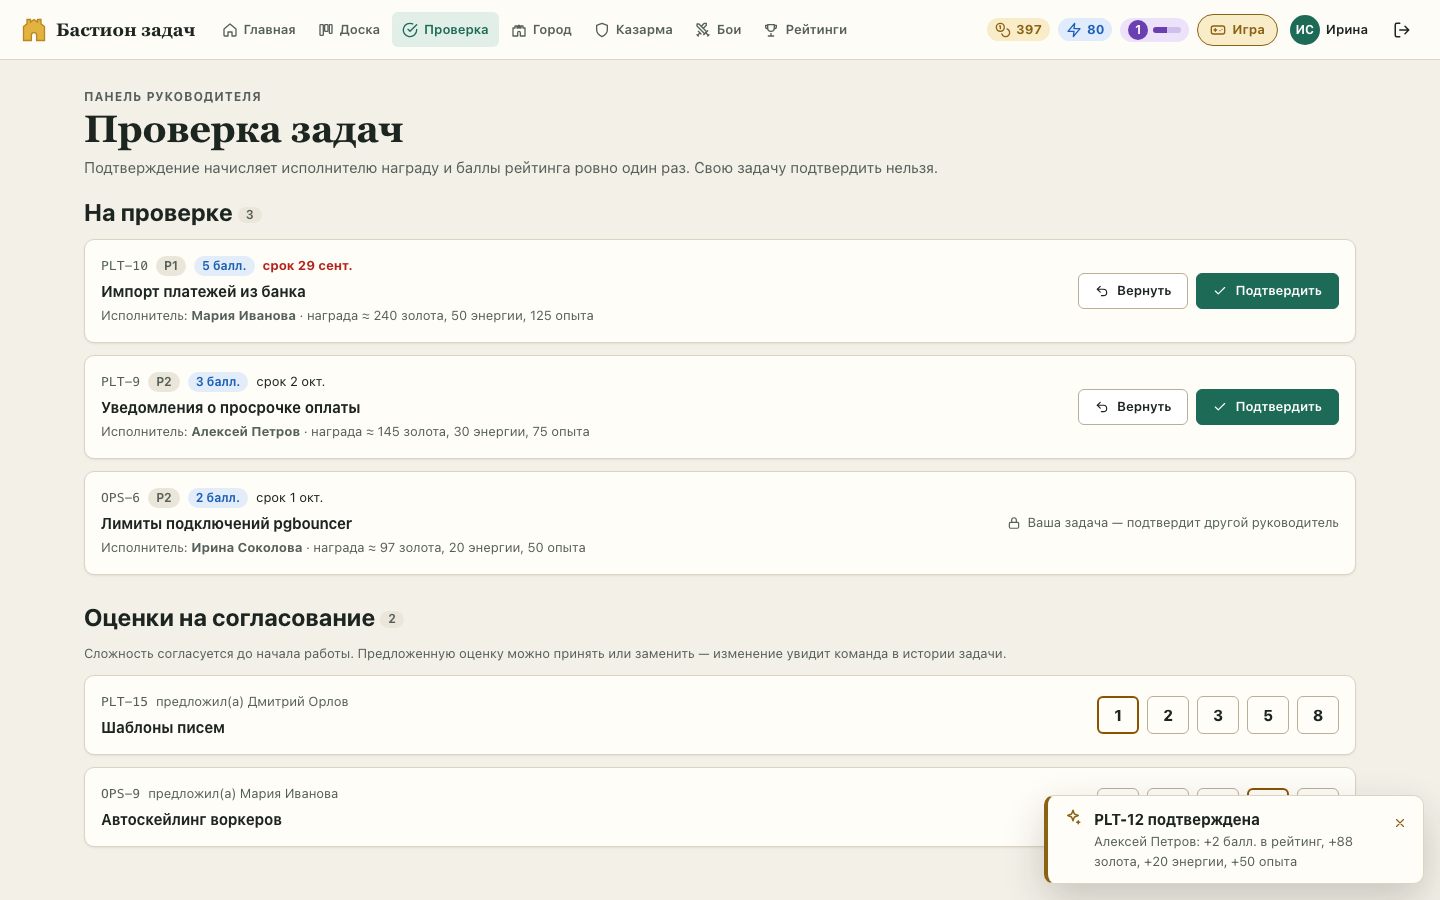
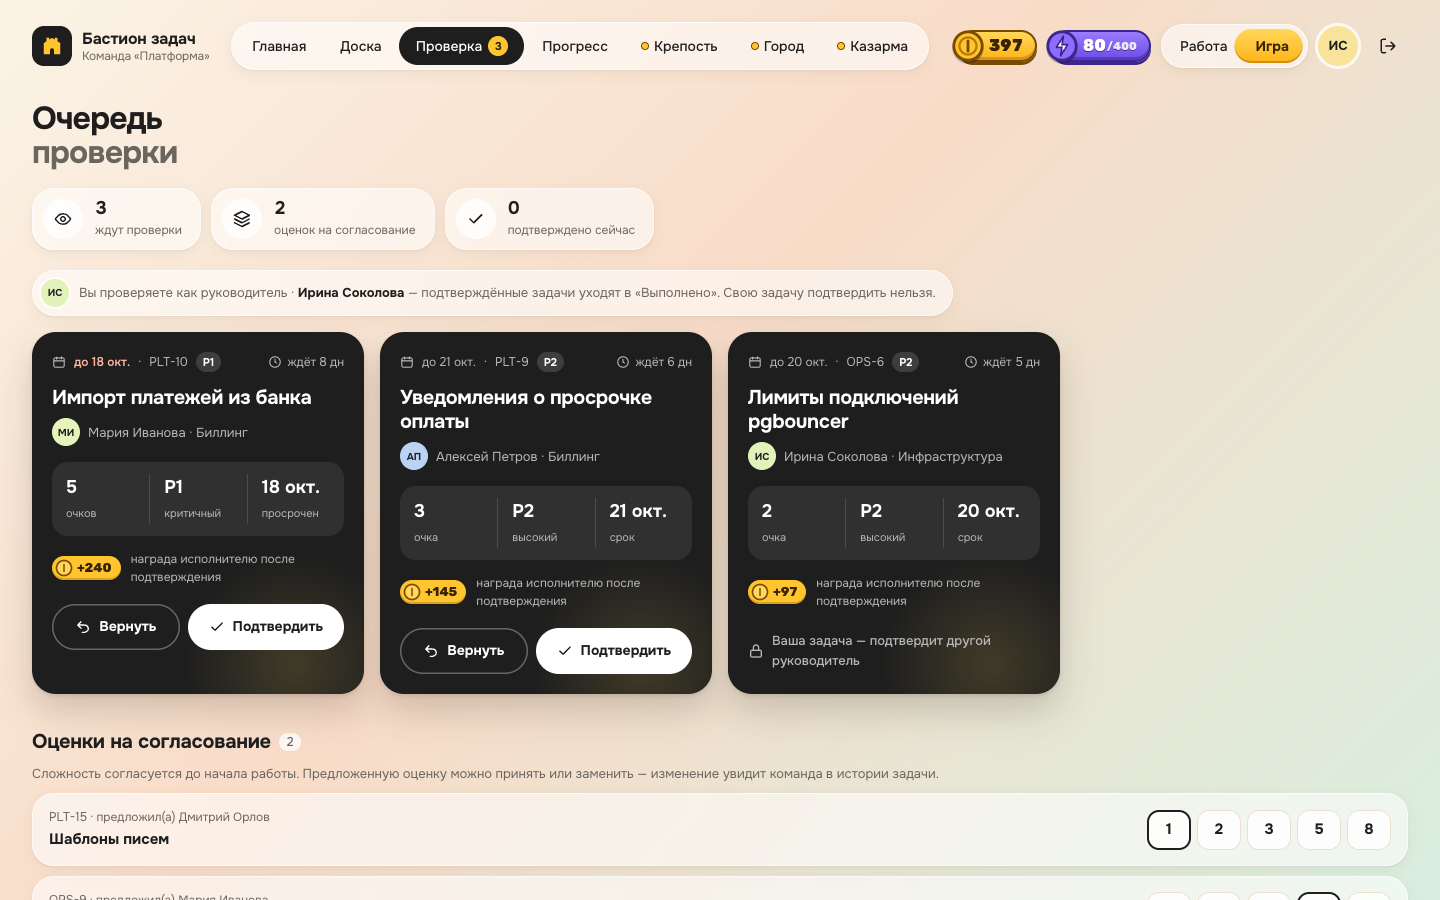
README: новые скриншоты интерфейса в 3D (доска, задача, проверка, казарма, город, крепость, дружеский бой, рабочий режим, мобильная версия); устаревшие снимки убраны

diff --git a/README.ru.md b/README.ru.md
@@ -27,7 +27,7 @@
 **Бастион задач** — канбан для рабочих задач и стратегия про развитие города. Выполняйте задачи команды,
 получайте ресурсы, стройте город и вместе защищайте крепость от собственного бэклога.
 
-<img src="docs/screenshots/city.png" alt="Город игрока с ратушей, башнями, стенами и стройкой" width="100%">
+<img src="docs/screenshots/city.png" alt="Город игрока в 3D: ратуша за стенами, башни, хранилища и казармы" width="100%">
 
 ---
 
@@ -50,13 +50,13 @@
 
 | Доска | Карточка задачи |
 |---|---|
-| <img src="docs/screenshots/board.png" alt="Канбан-доска с пятью колонками"> | <img src="docs/screenshots/task.png" alt="Карточка задачи со сложностью, наградой и историей"> |
+| <img src="docs/screenshots/board.png" alt="Канбан-доска с пятью колонками"> | <img src="docs/screenshots/task.png" alt="Карточка задачи с наградой, сроком и согласованной сложностью"> |
 | **Проверка руководителем** | **Казарма** |
-| <img src="docs/screenshots/review.png" alt="Панель руководителя с очередью на проверку и уведомлением о награде"> | <img src="docs/screenshots/army.png" alt="Три типа войск и очередь обучения"> |
+| <img src="docs/screenshots/review.png" alt="Очередь проверки руководителя: задачи на подтверждение и оценки на согласование"> | <img src="docs/screenshots/army.png" alt="Лагерь армии в 3D и карточки войск"> |
+| **Крепость** | **Дружеский бой** |
+| <img src="docs/screenshots/fortress.png" alt="Крепость в 3D: орда из задач команды идёт по дорожкам приоритетов к стенам"> | <img src="docs/screenshots/battle.png" alt="Повтор дружеского боя: отряд рушит стены и башни в городе коллеги"> |
 | **Рабочий режим без игры** | |
 | <img src="docs/screenshots/work-mode.png" alt="Главная в рабочем режиме: только задачи и события"> | |
-
-Скриншоты крепости, прогресса и дружеских боёв появятся вместе с новой визуальной системой.
 
 <details>
 <summary>Мобильная версия</summary>

diff --git a/README.md b/README.md
@@ -51,11 +51,13 @@ Gamified work tools usually end up ranking people. Task Bastion is built the oth
 
 | Board | Task card |
 |---|---|
-| <img src="docs/screenshots/board.png" alt="Kanban board with five columns"> | <img src="docs/screenshots/task.png" alt="Task card with estimate, reward and history"> |
+| <img src="docs/screenshots/board.png" alt="Kanban board with five columns"> | <img src="docs/screenshots/task.png" alt="Task card with reward, due date and agreed estimate"> |
 | **Lead review** | **Barracks** |
-| <img src="docs/screenshots/review.png" alt="Lead's review queue with a reward notification"> | <img src="docs/screenshots/army.png" alt="Troop types and the training queue"> |
+| <img src="docs/screenshots/review.png" alt="Lead's review queue: tasks to confirm and estimates to agree"> | <img src="docs/screenshots/army.png" alt="The army camp in 3D and the troop cards"> |
+| **Fortress** | **Friendly battle** |
+| <img src="docs/screenshots/fortress.png" alt="The 3D fortress: a horde made of the team's tasks marches down the priority lanes toward the walls"> | <img src="docs/screenshots/battle.png" alt="Friendly battle replay: the squad breaks the walls and towers of a colleague's city"> |
 | **City** | **Work mode, no game** |
-| <img src="docs/screenshots/city.png" alt="Player's city with a town hall, towers, walls and construction"> | <img src="docs/screenshots/work-mode.png" alt="Home page in Work mode: only tasks and events"> |
+| <img src="docs/screenshots/city.png" alt="Player's 3D city: a walled town hall, towers, storages and barracks"> | <img src="docs/screenshots/work-mode.png" alt="Home page in Work mode: only tasks and events"> |
 
 <details>
 <summary>Mobile</summary>
